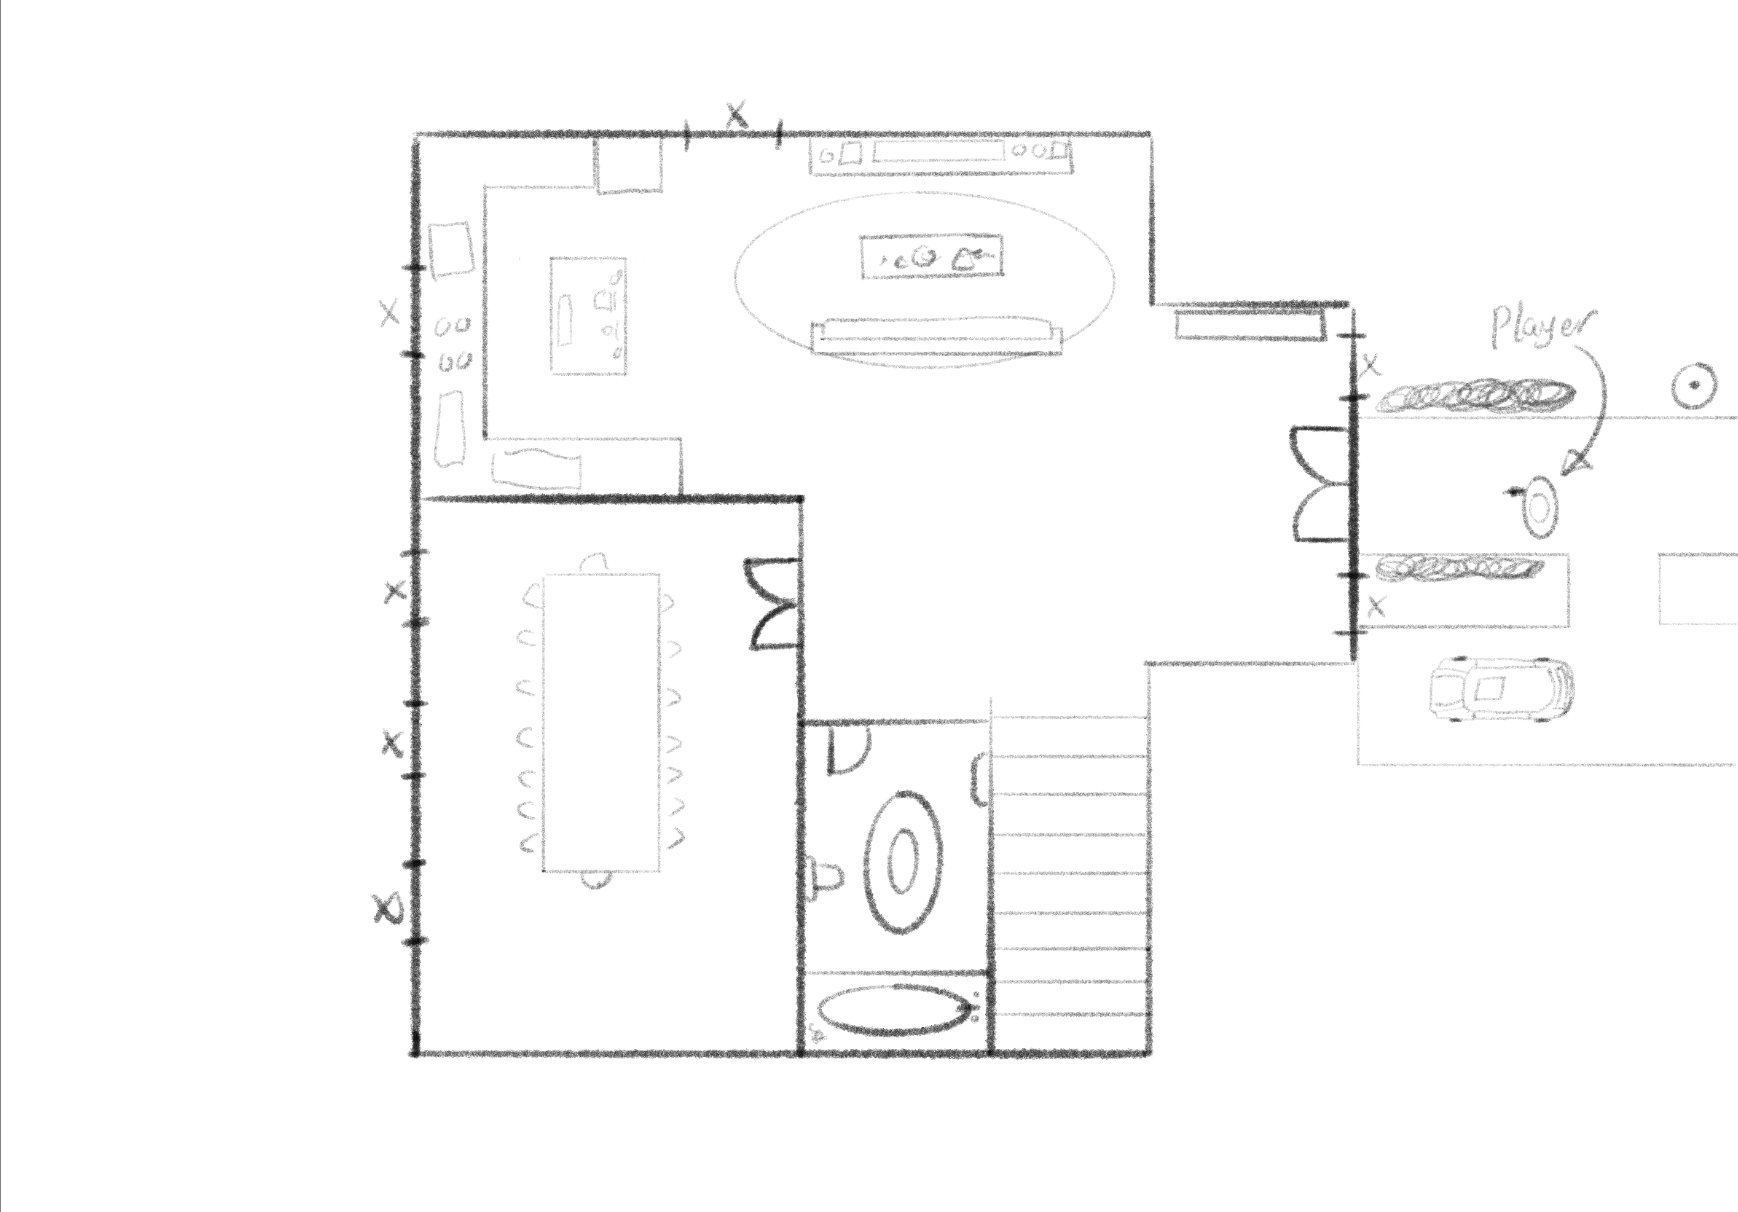
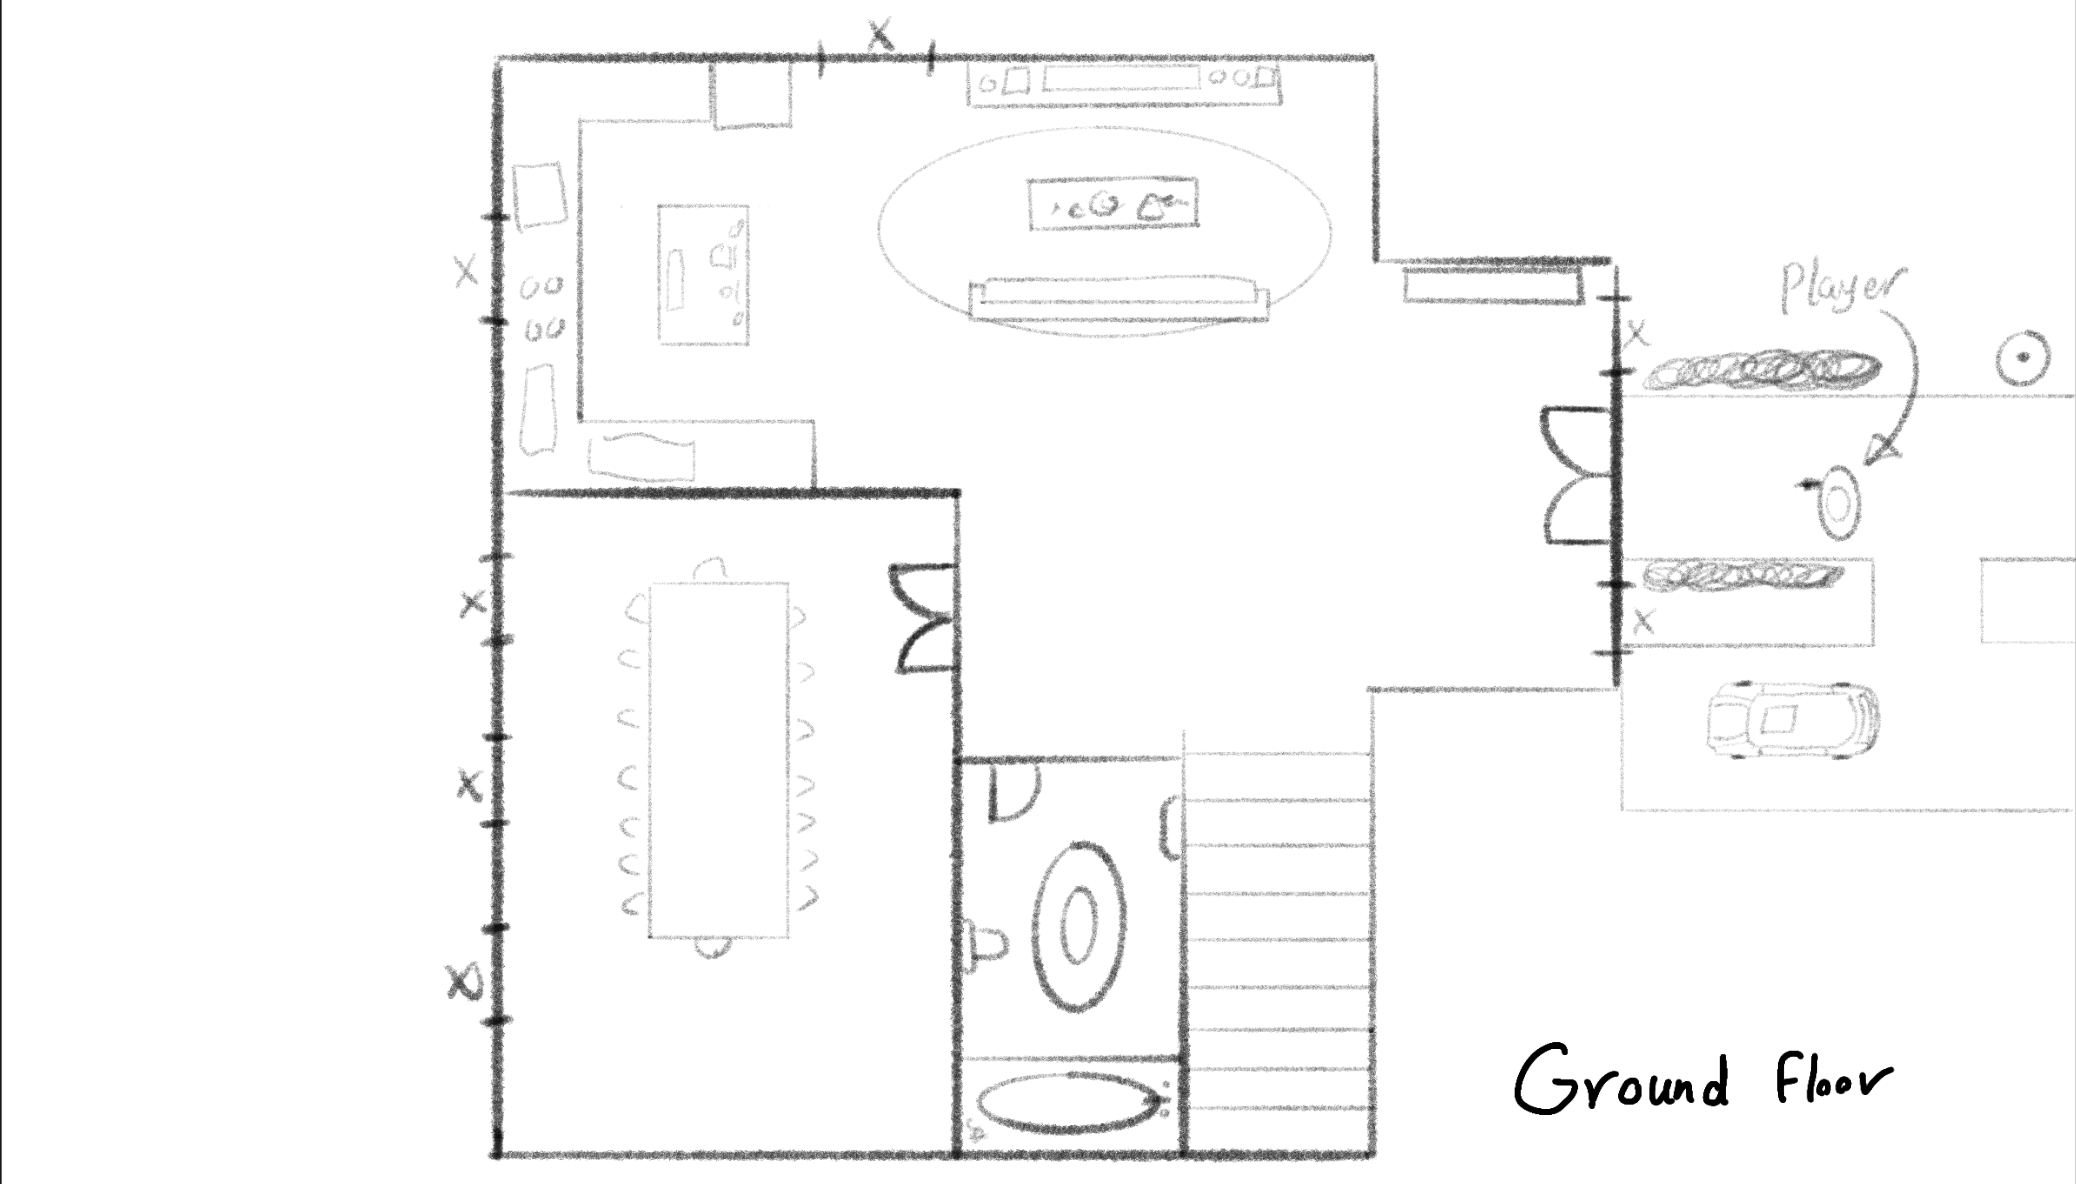
Adjustments to the Projects page

diff --git a/ProjectsPage.html b/ProjectsPage.html
@@ -190,14 +190,14 @@
                   </div>
 
                   <div class="carousel-item">
-                    <img src="assets/images/projects/Vantage/GroundFloorConcept.PNG" class="d-block" alt="Project Image" loading="lazy">
+                    <img src="assets/images/projects/Vantage/GroundFloorConcept.png" class="d-block" alt="Project Image" loading="lazy">
                     <div class="carousel-caption d-md-block" style="justify-self: center">
                       <p>Level 1 Concept art</p>
                     </div>
                   </div>
 
                   <div class="carousel-item">
-                    <img src="assets/images/projects/Vantage/GroundFloorConcept2.PNG" class="d-block" alt="Project Image" loading="lazy">
+                    <img src="assets/images/projects/Vantage/FirstFloorConcept.PNG" class="d-block" alt="Project Image" loading="lazy">
                     <div class="carousel-caption d-md-block" style="justify-self: center">
                       <p>Level 1 Concept art</p>
                     </div>
@@ -229,7 +229,7 @@
               <!-- End of third carousel -->
             </div>
 
-            <div class="projectDiv" data-aos="fade-right">
+            <div class="projectDiv evenDiv" data-aos="fade-right">
               <div>
                 <a href="https://thekidwhocodes.itch.io/Involuntary">
                   <h5 class="title">

diff --git a/css/projects-style.css b/css/projects-style.css
@@ -62,6 +62,10 @@ p {
     mix-blend-mode: difference;
 }
 
+.carousel-item {
+    min-height: 200px;
+}
+
 .carousel-item p {
     color: var(--second-section-text);
     text-shadow: rgb(84, 84, 84) 0px 1px 2px;
